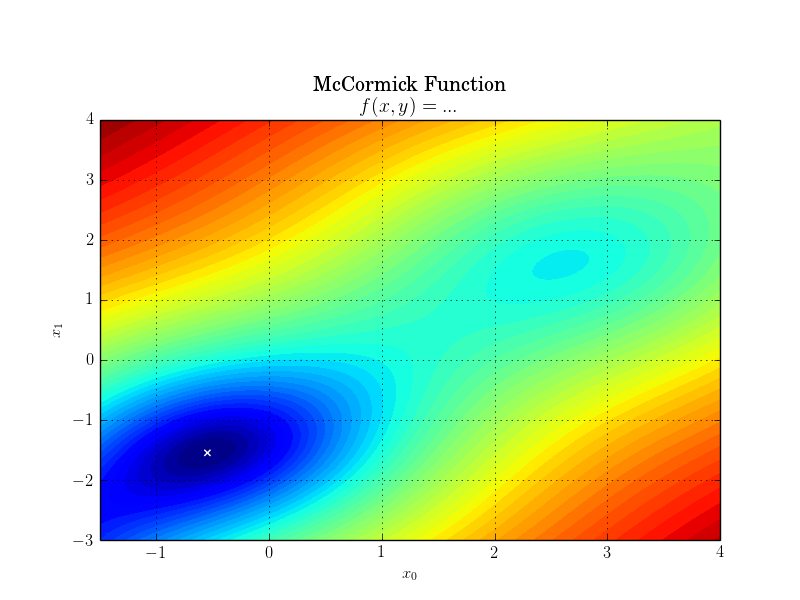
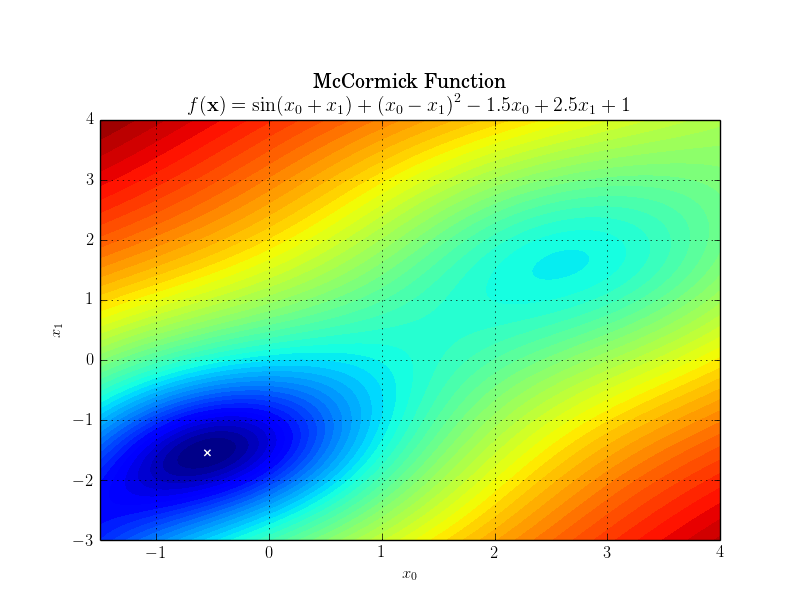
Update equations

diff --git a/functionsnd/michalewicz.py b/functionsnd/michalewicz.py
@@ -9,15 +9,15 @@ from itertools import permutations
 class Michalewicz(Function2D):
     """ Michalewicz Function. """
 
-    def __init__(self):
+    def __init__(self, n):
         """ Constructor. """
         # Constants
         self.m = 10
         # Information
-        self.min = np.array([2.20, 1.57])
-        self.value = -1.8013
-        self.domain = np.array([[0, np.pi], [0, np.pi]])
-        self.n = 2
+        self.min = np.array([[np.nan, np.nan] for i in range(n)])
+        self.value = np.nan
+        self.domain = np.array([[0, np.pi] for i in range(n)])
+        self.n = n
         self.smooth = True
         self.info = [True, False, False]
         # Description
@@ -31,6 +31,6 @@ class Michalewicz(Function2D):
         # Cost
         c = np.zeros(x.shape[1:])
         # Calculate Cost
-        c = -np.sum([np.sin(x[i])*sin(((i+1)*x[i]**2)/np.pi)**(2*self.m) for i in range(0, 2)], axis=0)
+        c = -np.sum([np.sin(x[i])*sin(((i+1)*x[i]**2)/np.pi)**(2*self.m) for i in range(0, self.n)], axis=0)
         # Return Cost
         return c

diff --git a/functions2d/rosenbrock.py b/functions2d/rosenbrock.py
@@ -19,7 +19,7 @@ class Rosenbrock(Function2D):
         # Description
         self.latex_name = "Rosenbrock Function"
         self.latex_type = "Valley Shaped"
-        self.latex_cost = r'\[ f(\boldsymbol{x}) = \sum_{i=1}^{n-1} \left[ 100 \left(x_{i+1} - x_{i}^{2}\right)^{2} + \left(x_{i} - 1\right)^{2}\right] \]'
+        self.latex_cost = r"\[ f(\boldsymbol{x}) = \sum_{i=0}^{d-2} \left[ 100 \left(x_{i+1} - x_{i}^{2}\right)^{2} + \left(x_{i} - 1\right)^{2}\right] \]"
         self.latex_desc = "The Rosenbrock function, also referred to as the Valley or Banana function, is a popular " \
                           "test problem for gradient-based optimization algorithms. It is shown in the plot above in " \
                           "its two-dimensional form. The function is unimodal, and the global minimum lies in a " \

diff --git a/functions2d/power_sum.py b/functions2d/power_sum.py
@@ -10,7 +10,7 @@ class PowerSum(Function2D):
     def __init__(self):
         """ Constructor. """
         # Constants
-        self.b = np.array([1,2])
+        self.b = np.array([1, 2])
         # Information
         self.min = np.array([2.0, 2.0])
         self.value = 0.0
@@ -20,8 +20,8 @@ class PowerSum(Function2D):
         # Description
         self.latex_name = "Power Sum Function"
         self.latex_type = "Plate-Shaped"
-        self.latex_cost = "\[ f(x,y) = ... \]"
-        self.latex_desc = "... "
+        self.latex_cost = r"\[ f(\mathbf{x}) = \sum_{i=0}^{d-1} \left [ \left ( \sum_{j=0}^{d-1} x_j^i \right ) - b_i \right ] \]"
+        self.latex_desc = "Multi-dimensional plate-like function. "
 
     def cost(self, x):
         """ Cost function. """

diff --git a/functions2d/zakharov.py b/functions2d/zakharov.py
@@ -19,8 +19,8 @@ class Zakharov(Function2D):
         # Description
         self.latex_name = "Zakharov Function"
         self.latex_type = "Plate-Shaped"
-        self.latex_cost = "\[ f(x,y) = ... \]"
-        self.latex_desc = "... "
+        self.latex_cost = r"\[ f(\mathbf{x}) = \sum_{i=0}^{d-1} x_i^2 + \left ( \sum_{i=0}^{d-1} 0.5 (i+1) x_i \right )^2 + \left ( \sum_{i=0}^{d-1} 0.5 (i+1) x_i \right )^4  \]"
+        self.latex_desc = "Single global minimum plate-like function."
 
     def cost(self, x):
         """ Cost function. """

diff --git a/functions2d/easom.py b/functions2d/easom.py
@@ -19,7 +19,7 @@ class Easom(Function2D):
         self.info = [True, True, True]
         # Description
         self.latex_name = "Easom Function"
-        self.latex_cost = "\[ f(x,y) = ... \]"
+        self.latex_cost = r"\[ f(\mathbf{x}) = - \cos(x_0) \cos(x_1) \exp(-(x_0 - \pi)^2-(x_1 - \pi)^2) \]"
         self.latex_desc = "The Easom function has several local minima. It is unimodal, and the global minimum has a " \
                           "small area relative to the search space. "
 

diff --git a/functions2d/de_jong_5.py b/functions2d/de_jong_5.py
@@ -23,7 +23,7 @@ class DeJong5(Function2D):
         # Description
         self.latex_name = "De Jong No. 5"
         self.latex_type = "Steep"
-        self.latex_cost = "\[ f(x,y) = ... \]"
+        self.latex_cost = r"\[  f(\mathbf{x}) = \left ( 0.002 + \sum_{j=1}^25 \frac{1}{j + (x_0 - a_{0j})^6 + (x_1 - a_{1j})^6} \right )^{-1} \]"
         self.latex_desc = "The fifth function of De Jong is multimodal, with very sharp drops on a mainly flat surface.  "
 
     def cost(self, x):

diff --git a/functions2d/three_hump_camel.py b/functions2d/three_hump_camel.py
@@ -19,7 +19,7 @@ class ThreeHumpCamel(Function2D):
         # Description
         self.latex_name = "Three Hump Camel Function"
         self.latex_type = "Valley Shaped"
-        self.latex_cost = r'\[ f(x,y) = 2x^{2} - 1.05x^{4} + \frac{x^{6}}{6} + xy + y^{2} \]'
+        self.latex_cost = r"\[ f(\mathbf{x}) = 2x_0^{2} - 1.05x_0^{4} + \frac{x_0^{6}}{6} + x_0 x_1 +  ^{2} \]"
         self.latex_desc = "The function has three local minima.  "
 
     def cost(self, x):

diff --git a/functions2d/dixon_price.py b/functions2d/dixon_price.py
@@ -19,8 +19,8 @@ class DixonPrice(Function2D):
         # Description
         self.latex_name = "Dixon-Price Function"
         self.latex_type = "Valley Shaped"
-        self.latex_cost = r'\[ f(x,y) = ... \]'
-        self.latex_desc = "....  "
+        self.latex_cost = r"\[ f(\mathbf{x}) = (x_0 - 1)^2 + \sum_{i=1}^{d-1} i(2x_i^2 - x_{i-1})^2 \]"
+        self.latex_desc = " Valley with two local minima."
 
     def cost(self, x):
         """ Cost function. """

diff --git a/functions2d/six_hump_camel.py b/functions2d/six_hump_camel.py
@@ -20,7 +20,7 @@ class SixHumpCamel(Function2D):
         # Description
         self.latex_name = "Six Hump Camel Function"
         self.latex_type = "Valley Shaped"
-        self.latex_cost = r'\[ f(x,y) = ... \]'
+        self.latex_cost = r"\[ f(\mathbf{x}) = \left ( 4 - 2.1 x_0^2 + \frac{x_0^4}{3} \right ) x_0^2 + x_0 x_1 + (-4 + 4 x_1^2) x_1^2 \]"
         self.latex_desc = "The function has six local minima.  "
 
     def cost(self, x):

diff --git a/functions2d/mccormick.py b/functions2d/mccormick.py
@@ -20,7 +20,7 @@ class McCormick(Function2D):
         # Description
         self.latex_name = "McCormick Function"
         self.latex_type = "Plate-Shaped"
-        self.latex_cost = "\[ f(x,y) = ... \]"
+        self.latex_cost = r"\[ f(\mathbf{x}) = \sin(x_0 + x_1) + (x_0 - x_1)^2 - 1.5 x_0 + 2.5 x_1 + 1 \]"
         self.latex_desc = "description"
 
     def cost(self, x):

diff --git a/functions2d/booth.py b/functions2d/booth.py
@@ -19,7 +19,7 @@ class Booth(Function2D):
         # Description
         self.latex_name = "Booth Function"
         self.latex_type = "Plate-Shaped"
-        self.latex_cost = "\[ f(x,y) = ... \]"
+        self.latex_cost = r"\[ f(\mathbf{x}) = (x_0 + 2 x_1 - 7)^2 + (2x_0 + x_2 - 5)^2 \]"
         self.latex_desc = "Plate shaped function."
 
     def cost(self, x):

diff --git a/functions2d/matyas.py b/functions2d/matyas.py
@@ -20,7 +20,7 @@ class Matyas(Function2D):
         # Description
         self.latex_name = "Matyas Function"
         self.latex_type = "Plate-Shaped"
-        self.latex_cost = "f(x,y) = ..."
+        self.latex_cost = r"\[ f(\mathbf{x}) = 0.26(x_0^2 + x_1^2) - 0.48 x_0 x_1 \]"
         self.latex_desc = "This function..."
 
     def cost(self, x):
